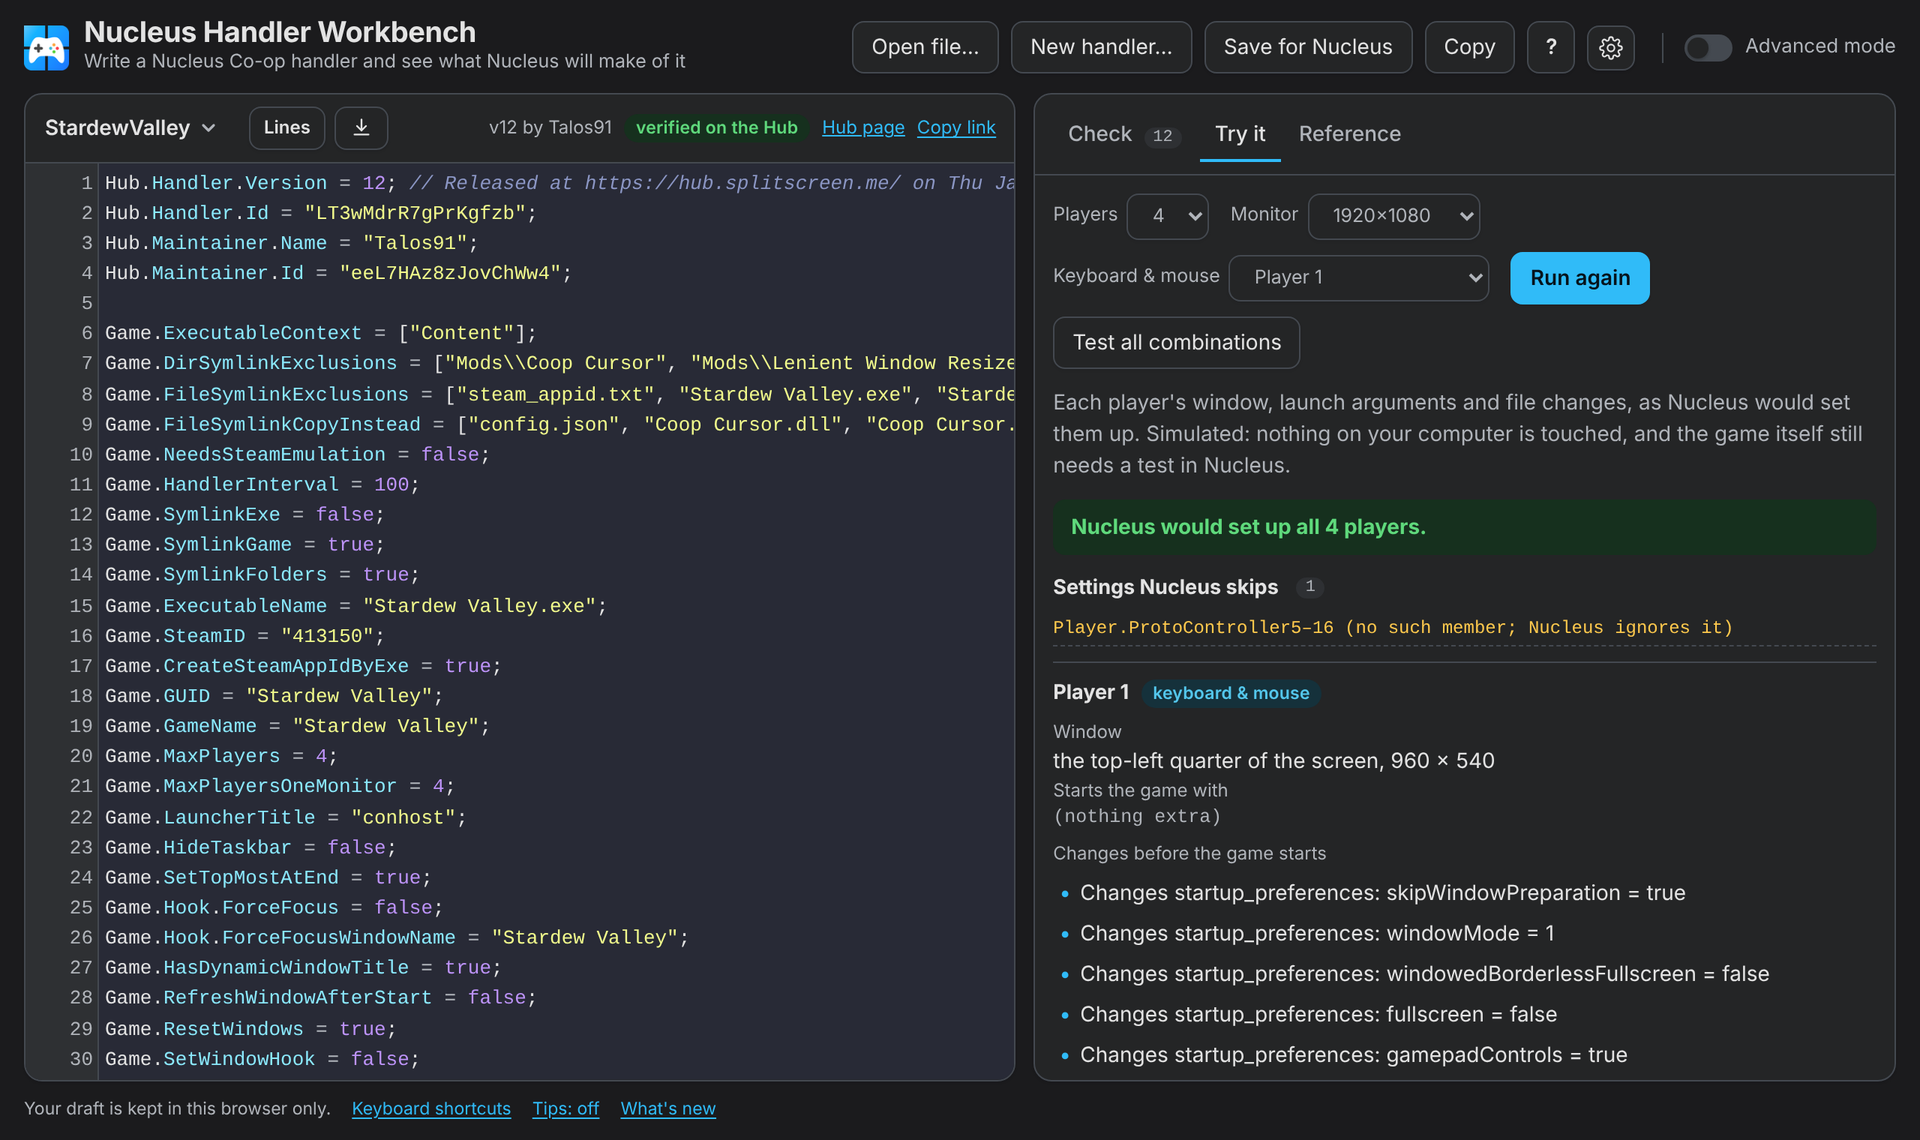
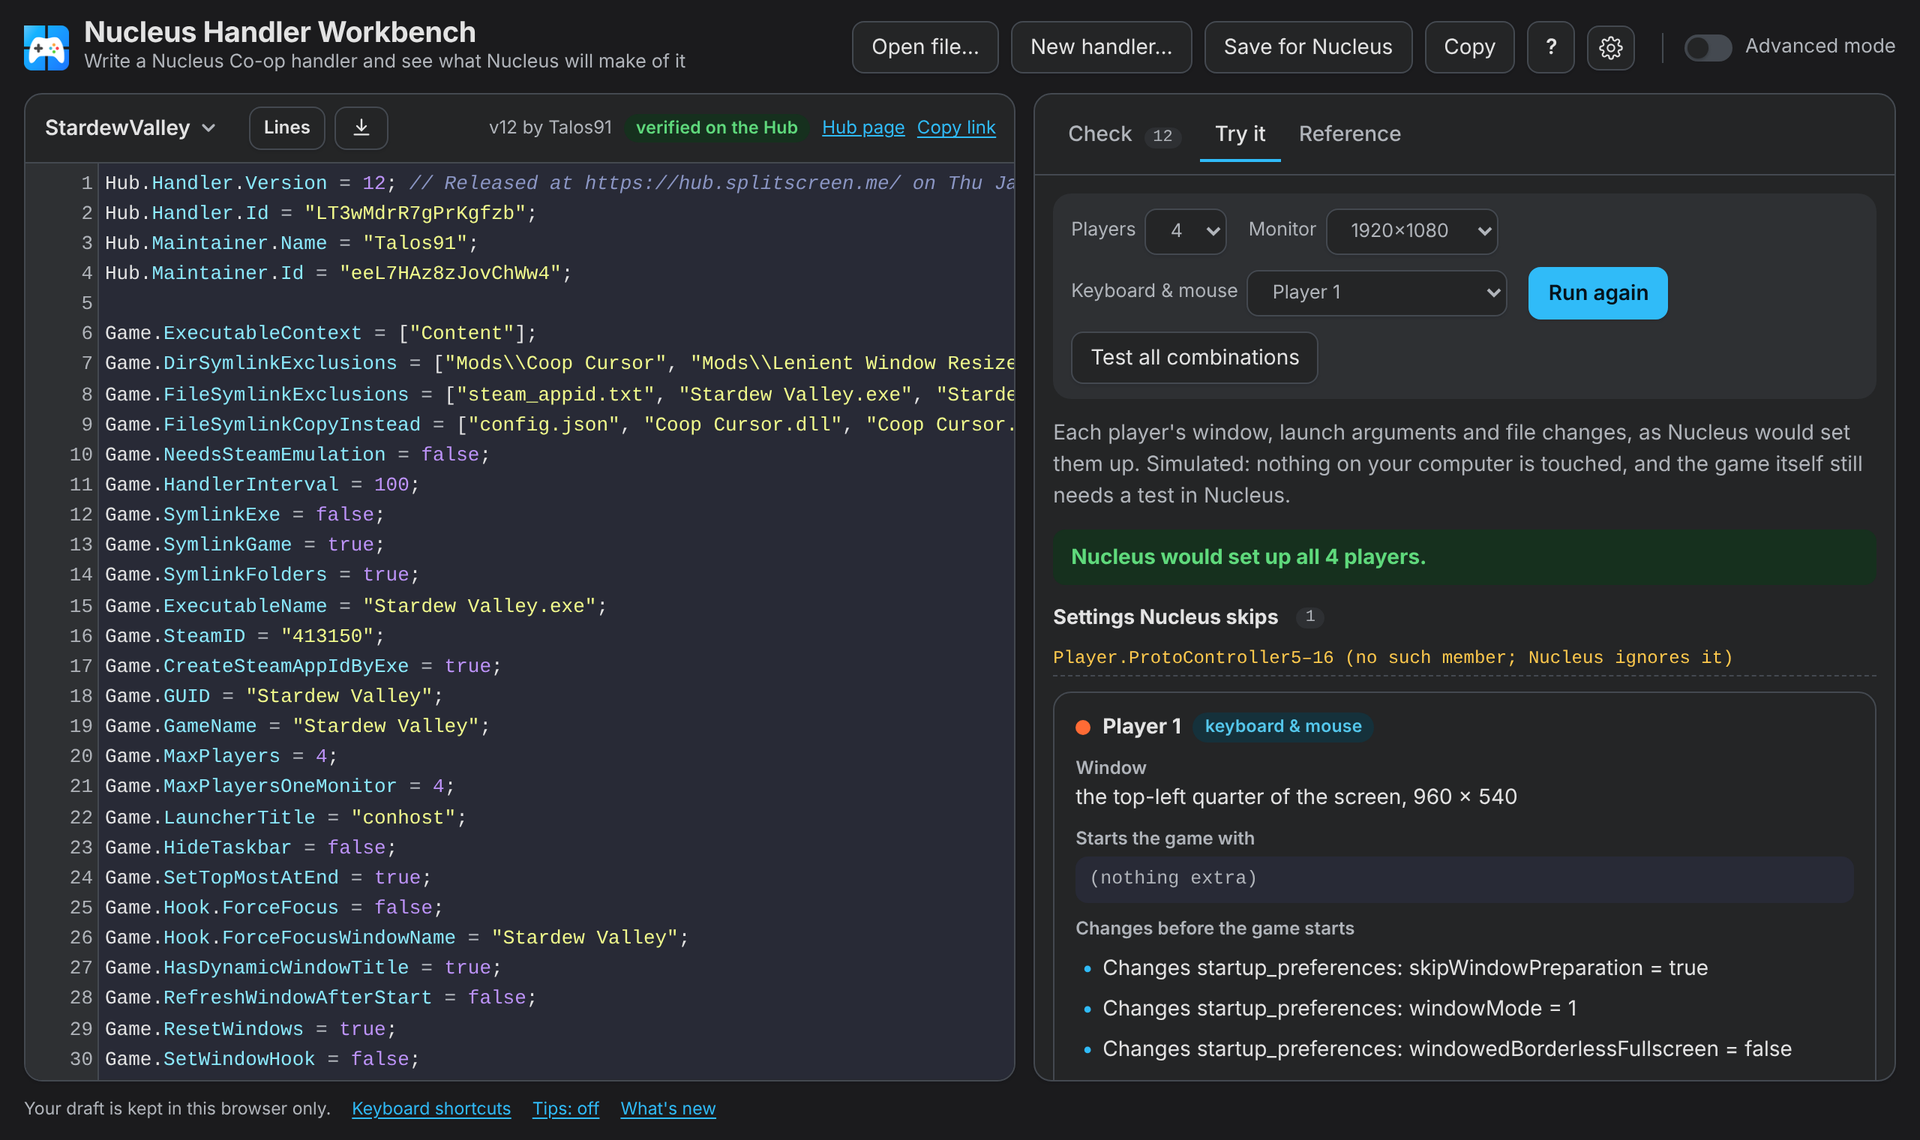
Reference home (what's in it), Try it player cards, Settings switches
Reference with nothing typed lists the objects with counts (click for all
names), the most used names in Hub handlers, enums and sample searches.
Try it: controls in a toolbar, one card per player with their colour.
Settings: switches with hover rows. Smoke check + axe for Reference.

Claude-Session: https://claude.ai/code/session_0176z2bCvwUXMSQ8ZHn5TiTv

Changed region(s): [[0.5312, 0.1842, 0.9688, 0.9518]]

diff --git a/playground/src/page.html b/playground/src/page.html
@@ -109,7 +109,6 @@ a.brand:focus-visible { outline: 2px solid var(--accent); outline-offset: 3px; }
 .logo-v3, :root[data-site="v3"] .logo-www { display: none; }
 :root[data-site="v3"] .logo-v3 { display: block; }
 /* v3: colour means a player. Player cards in Try it carry their player's colour. */
-:root[data-site="v3"] .player { border-top: 0; border-left: 3px solid var(--pc, var(--line)); padding-left: 12px; }
 .player.p1 { --pc: var(--p1); } .player.p2 { --pc: var(--p2); } .player.p3 { --pc: var(--p3); } .player.p4 { --pc: var(--p4); }
 .player.p5 { --pc: var(--p5); } .player.p6 { --pc: var(--p6); } .player.p7 { --pc: var(--p7); } .player.p8 { --pc: var(--p8); }
 .sr-only { position: absolute; width: 1px; height: 1px; overflow: hidden; clip-path: inset(50%); white-space: nowrap; }
@@ -124,6 +123,7 @@ a.btn { text-decoration: none; color: var(--fg); display: inline-block; }
 .btn.primary { background: var(--accent); color: var(--accent-fg); border-color: var(--accent); font-weight: 600; }
 .btn.primary:hover { background: color-mix(in srgb, var(--accent) 88%, var(--fg)); border-color: transparent; }
 :focus-visible { outline: 2px solid var(--accent); outline-offset: 2px; }
+:root { accent-color: var(--accent); }
 
 .main { flex: 1; min-height: 0; display: grid; grid-template-columns: minmax(0, 1.15fr) 12px minmax(0, 1fr); gap: 0; }
 @media (min-width: 861px) { .main:has(#lines:not([hidden])) { grid-template-columns: minmax(0, 1.5fr) 12px minmax(0, 1fr); } }
@@ -312,7 +312,16 @@ body.resizing-v, body.resizing-v * { cursor: row-resize !important; user-select:
 .set-field input { font: 13px var(--font-mono); color: var(--fg); background: var(--code-bg); border: 1px solid var(--line); border-radius: var(--r-ctl); padding: 6px 8px; width: 100%; box-sizing: border-box; }
 .set-waka-row { display: flex; gap: 10px; align-items: center; flex-wrap: wrap; }
 #settings-dialog h2 { margin: 0 0 6px; font-size: 18px; }
-.set-sec { border-top: 1px solid var(--line); padding: 10px 0 8px; display: flex; flex-direction: column; gap: 4px; align-items: flex-start; }
+.set-sec { border-top: 1px solid var(--line); padding: 12px 0 10px; display: flex; flex-direction: column; gap: 4px; align-items: stretch; }
+.set-sec > :not(.check):not(h3) { align-self: flex-start; }
+/* Settings: on/off choices as switches, each row with a soft hover */
+.set-sec .check, #lines-settings .set-row { margin: 0; padding: 6px 8px; border-radius: var(--r-ctl); cursor: pointer; }
+.set-sec .check:hover, #lines-settings .set-row:hover { background: var(--surface-2); }
+.set-sec input[type=checkbox], #lines-settings input[type=checkbox] { appearance: none; -webkit-appearance: none; flex: none; position: relative; width: 32px; height: 18px; margin: 2px 0 0; border-radius: 999px; background: color-mix(in srgb, var(--fg) 22%, var(--surface-2)); cursor: pointer; transition: background-color .15s; }
+.set-sec input[type=checkbox]::after, #lines-settings input[type=checkbox]::after { content: ""; position: absolute; top: 2px; left: 2px; width: 14px; height: 14px; border-radius: 50%; background: #fff; box-shadow: 0 1px 2px rgba(0,0,0,.3); transition: transform .15s var(--ease); }
+.set-sec input[type=checkbox]:checked, #lines-settings input[type=checkbox]:checked { background: var(--accent); }
+.set-sec input[type=checkbox]:checked::after, #lines-settings input[type=checkbox]:checked::after { transform: translateX(14px); background: var(--accent-fg); }
+@media (prefers-reduced-motion: reduce) { .set-sec input[type=checkbox], .set-sec input[type=checkbox]::after, #lines-settings input[type=checkbox]::after { transition: none; } }
 .set-sec h3 { margin: 0 0 2px; font-size: 13px; font-weight: 600; color: var(--muted); }
 .set-sec summary { cursor: pointer; font-weight: 600; color: var(--muted); }
 details.set-sec[open] summary { margin-bottom: 4px; }
@@ -394,7 +403,7 @@ a { color: var(--accent); }
 [role=tab][aria-selected=true] { color: var(--fg); border-bottom-color: var(--accent); }
 .count { font: 500 11px var(--font-mono); background: var(--surface-2); color: var(--muted); border-radius: 9px; padding: 1px 6px; margin-left: 4px; }
 [role=tabpanel] { flex: 1; min-height: 0; overflow: auto; padding: 12px; }
-.panel-tools { display: flex; flex-wrap: wrap; gap: 8px 14px; align-items: center; margin-bottom: 12px; }
+.panel-tools { display: flex; flex-wrap: wrap; gap: 8px 14px; align-items: center; margin-bottom: 12px; padding: 10px 12px; background: var(--surface-2); border-radius: var(--r-pane); }
 .panel-tools label { display: flex; gap: 6px; align-items: center; color: var(--muted); font-size: 12.5px; }
 
 .pill, .chip { display: inline-block; border-radius: 999px; font-size: 11.5px; font-weight: 600; padding: 1px 8px; background: var(--surface-2); color: var(--muted); letter-spacing: .01em; }
@@ -420,7 +429,14 @@ a { color: var(--accent); }
 
 .banner { border-radius: var(--r-ctl); padding: 8px 12px; margin-bottom: 12px; overflow-wrap: anywhere; }
 .banner.error { background: var(--err-bg); color: var(--err); } .banner.ok { background: var(--ok-bg); color: var(--ok); }
-.player { border-top: 1px solid var(--line); padding-top: 10px; margin-top: 10px; }
+/* Try it: one card per player, the player's colour as a dot by the name */
+.player { border: 1px solid var(--line); border-radius: var(--r-pane); background: var(--surface); box-shadow: var(--sh-1); padding: 12px 14px; margin-top: 10px; }
+.player > h3 { font-size: 14px; }
+.player > h3::before { content: ""; width: 10px; height: 10px; border-radius: 50%; background: var(--pc, var(--muted)); flex: none; }
+.player dl { margin: 8px 0 0; }
+.player dt { font-weight: 600; margin-top: 8px; }
+.player dd.mono { background: var(--code-bg); border-radius: var(--r-ctl); padding: 6px 9px; margin-top: 3px; }
+.player .effects { margin: 4px 0 0; }
 h3 { font-size: 13.5px; margin: 0 0 6px; display: flex; gap: 8px; align-items: center; }
 dl { margin: 0 0 6px; } dt { color: var(--muted); font-size: 12px; } dd { margin: 0; }
 .mono { font: 12.5px/1.5 var(--font-mono); overflow-wrap: anywhere; }
@@ -614,6 +630,26 @@ kbd { font: 11px var(--font-mono); border: 1px solid var(--line); border-bottom-
 .entries.chips .entry .mono { width: 26px; height: 26px; border-radius: 999px; font-size: 10.5px; }
 .entries.chips .entry .t { font-weight: 500; white-space: nowrap; }
 :root[data-site="v3"] #open-dialog { border-radius: var(--r-pane); }
+/* Reference with nothing typed: what's in it */
+.api-home { display: flex; flex-direction: column; gap: 6px; }
+.api-home > p { margin: 0; }
+.api-h { margin: 14px 0 2px; font-size: 12px; font-weight: 600; color: var(--muted); }
+.api-groups { display: grid; grid-template-columns: repeat(auto-fill, minmax(220px, 1fr)); gap: 8px; }
+.api-group { display: flex; flex-direction: column; gap: 3px; text-align: left; font: inherit; color: var(--fg); background: var(--surface-2); border: 0; border-radius: var(--r-pane); padding: 10px 12px; cursor: pointer; transition: background-color .12s; }
+.api-group:hover { background: color-mix(in srgb, var(--accent) 12%, var(--surface-2)); }
+.api-group .t { font: 600 13.5px var(--font-mono); display: flex; gap: 6px; align-items: center; }
+.api-group .count { font: 600 11px var(--font-body); color: var(--muted); background: var(--surface); border-radius: 999px; padding: 0 7px; }
+.api-group .s { font-size: 12.5px; color: var(--muted); line-height: 1.4; }
+.api-chips { display: flex; flex-wrap: wrap; gap: 6px; }
+.api-chip { font: 12px var(--font-mono); color: var(--fg); background: var(--surface-2); border: 0; border-radius: 999px; padding: 4px 10px; cursor: pointer; }
+.api-chip:hover { background: color-mix(in srgb, var(--accent) 16%, var(--surface-2)); }
+.api-crumbs { font-size: 13px; }
+.api-list { list-style: none; margin: 6px 0 0; padding: 0; display: flex; flex-direction: column; }
+.api-list button { display: grid; grid-template-columns: minmax(0, auto) auto; column-gap: 10px; width: 100%; text-align: left; font: inherit; color: var(--fg); background: none; border: 0; border-radius: var(--r-ctl); padding: 6px 8px; cursor: pointer; }
+.api-list button:hover { background: var(--surface-2); }
+.api-list .n { font: 600 12.5px var(--font-mono); overflow-wrap: anywhere; }
+.api-list .ty { font: 11.5px var(--font-mono); color: var(--muted); justify-self: end; }
+.api-list .d { grid-column: 1 / -1; font-size: 12.5px; color: var(--muted); overflow: hidden; text-overflow: ellipsis; white-space: nowrap; }
 #help-dialog .keys td { padding: 5px 8px; border-bottom: 1px solid var(--line); }
 /* --- Advanced mode off (simple-only shown) / on (dev-only shown) --- */
 :root[data-mode=simple] .dev-only, :root[data-mode=dev] .simple-only { display: none !important; }

diff --git a/playground/src/app.ts b/playground/src/app.ts
@@ -13,7 +13,8 @@ import { MATRIX_RESOLUTIONS, planMatrix, failureOf, jobOptions } from '@core/mat
 import { lint, Diagnostic, RULES, lineOf, pluginGlobals } from '@core/lint';
 import { api, membersOf, memberMarkdown, ownerLabel, Resolved } from '@core/api';
 import { memberContextAt, resolveAt, callContextAt } from '@core/complete';
-import { search, lookup, Entry } from '@core/lookup';
+import { search, lookup, allEntries, Entry } from '@core/lookup';
+import USAGE from './usage.json';
 import { renderHandler, FEATURES } from '@core/templates';
 import { simulate, sessionSummary, groupIgnored, parsePluginsInfo } from '@core/sim';
 import { buildPrompt, pageTools, diffLines, hunks, counts, newProblems } from './aifix';
@@ -793,11 +794,61 @@ $('#sim-all').addEventListener('click', testAll);
 // ---------------------------------------------------------------------------
 // API search
 
+// Reference with nothing typed: what's in it, so it's clear what can be found there.
+const API_GROUPS: { key: string; title: string; doc: string; match: (path: string) => boolean }[] = [
+  { key: 'Game', title: 'Game', doc: 'The handler\'s options: the game, its executable, players, mutexes, files and callbacks.', match: (p) => /^Game\.[^.]+$/.test(p) },
+  { key: 'Game.Hook', title: 'Game.Hook', doc: 'Focus and input hooks injected into each instance.', match: (p) => p.startsWith('Game.Hook.') },
+  { key: 'Game.ProtoInput', title: 'Game.ProtoInput', doc: 'Proto Input settings for the whole session.', match: (p) => p.startsWith('Game.ProtoInput.') },
+  { key: 'Context', title: 'Context', doc: 'One player\'s instance, inside Game.Play: launch arguments, folders and files to edit.', match: (p) => p.startsWith('Context.') },
+  { key: 'Player', title: 'Player', doc: 'The player Game.Play runs for (also PlayerList[i]): screen, controller, nickname.', match: (p) => p.startsWith('Player.') },
+  { key: 'ProtoInput', title: 'ProtoInput', doc: 'Proto Input calls at runtime, inside Game.Play and other callbacks.', match: (p) => p.startsWith('ProtoInput.') },
+  { key: 'System', title: '.NET (System.*)', doc: 'Files, folders, paths and the environment, through .NET.', match: (p) => p.startsWith('System.') },
+];
+const typeOf = (e: Entry) => (e.member.kind === 'method' ? 'fn' : ((e.member as { type?: string }).type ?? ''));
+function renderApiHome(el: HTMLElement) {
+  const all = allEntries();
+  const usage = USAGE.counts as Record<string, number>;
+  const top = Object.entries(usage)
+    .filter(([p]) => !/^Game\.(GUID|GameName|ExecutableName|Play|Hub)$/.test(p) && all.some((e) => e.path === p && e.member.kind !== 'object'))
+    .slice(0, 14);
+  const enums = Object.keys(api.enums).sort();
+  el.innerHTML = `<div class="api-home">
+    <p class="muted">Every option, Context member, enum and .NET call a handler can use, with what Nucleus does with it. Type above, or start here.</p>
+    <h3 class="api-h">Browse</h3>
+    <div class="api-groups">${API_GROUPS.map((g) => `<button type="button" class="api-group" data-group="${g.key}"><span class="t">${esc(g.title)} <span class="count">${all.filter((e) => g.match(e.path)).length}</span></span><span class="s">${esc(g.doc)}</span></button>`).join('')}</div>
+    <h3 class="api-h">Most used in Hub handlers</h3>
+    <div class="api-chips">${top.map(([p, n]) => `<button type="button" class="api-chip" data-q="${esc(p)}" title="In ${n} of ${USAGE.handlers} Hub handlers">${esc(p)}</button>`).join('')}</div>
+    <h3 class="api-h">Nucleus values (enums)</h3>
+    <div class="api-chips">${enums.map((n) => `<button type="button" class="api-chip" data-q="Nucleus.${esc(n)}">Nucleus.${esc(n)}</button>`).join('')}</div>
+    <h3 class="api-h">Try a search</h3>
+    <p class="muted">${['mutex', 'window title', 'save file', 'keyboard', 'steam'].map((q) => `<button class="link" data-q="${q}">${q}</button>`).join(' · ')}</p>
+  </div>`;
+  el.querySelectorAll<HTMLButtonElement>('[data-group]').forEach((b) => b.addEventListener('click', () => renderApiGroup(el, b.dataset.group!)));
+  wireApiLinks(el);
+}
+/** One object's members, as a compact list: click one for its docs. */
+function renderApiGroup(el: HTMLElement, key: string) {
+  const g = API_GROUPS.find((x) => x.key === key)!;
+  const list = allEntries().filter((e) => g.match(e.path)).sort((a, b) => a.path.localeCompare(b.path));
+  el.innerHTML = `<div class="api-home"><p class="api-crumbs"><button type="button" class="link" data-home>Reference</button> › <strong>${esc(g.title)}</strong> <span class="muted">· ${list.length}</span></p><p class="muted">${esc(g.doc)}</p>
+    <ul class="api-list">${list.map((e) => `<li><button type="button" data-q="${esc(e.path)}"><span class="n">${esc(e.path)}</span><span class="ty">${esc(typeOf(e))}</span><span class="d">${esc((e.member.doc || '').split('\n')[0].replace(/[`*\\]/g, ''))}</span></button></li>`).join('')}</ul></div>`;
+  el.querySelector('[data-home]')!.addEventListener('click', () => renderApiHome(el));
+  wireApiLinks(el);
+  el.scrollTop = 0;
+}
+function wireApiLinks(el: HTMLElement) {
+  el.querySelectorAll<HTMLButtonElement>('[data-q]').forEach((b) =>
+    b.addEventListener('click', () => {
+      ($('#api-q') as HTMLInputElement).value = b.dataset.q!;
+      renderApi(b.dataset.q!);
+    }),
+  );
+}
+
 function renderApi(q: string) {
   const el = $('#api-results');
-  if (!q.trim()) {
-    el.innerHTML = '<p class="empty">Search option names and docs, e.g. <button class="link" data-q="mutex">mutex</button>, <button class="link" data-q="window title">window title</button>, <button class="link" data-q="Context.ModifySaveFile">Context.ModifySaveFile</button>, <button class="link" data-q="Nucleus.Folder">Nucleus.Folder</button>.</p>';
-  } else {
+  if (!q.trim()) return renderApiHome(el);
+  {
     const exact = lookup(q);
     let entries: Entry[] = exact.kind === 'entries' ? exact.entries : [];
     for (const e of search(q, 30)) if (!entries.some((x) => x.path === e.path)) entries.push(e);
@@ -812,12 +863,7 @@ function renderApi(q: string) {
         ? entries.map((e) => `<article class="api"><h3>${esc(e.path)}${e.member.deprecated ? ' <span class="chip hint">deprecated</span>' : ''}${e.member.required ? ' <span class="chip error">required</span>' : ''}</h3>${md(memberMarkdown(e.owner, e.name, e.member).replace(/\n\n\[Handler API docs\]\([^)]+\)$/, ''))}</article>`).join('')
         : `<p class="empty">Nothing matches "${esc(q)}".</p>`);
   }
-  el.querySelectorAll<HTMLButtonElement>('[data-q]').forEach((b) =>
-    b.addEventListener('click', () => {
-      ($('#api-q') as HTMLInputElement).value = b.dataset.q!;
-      renderApi(b.dataset.q!);
-    }),
-  );
+  wireApiLinks(el);
 }
 $('#api-q').addEventListener('input', (e) => renderApi((e.target as HTMLInputElement).value));
 renderApi('');

diff --git a/playground/src/tips.ts b/playground/src/tips.ts
@@ -139,6 +139,7 @@ const PITFALLS = T('Pitfall', [
 const SHORTCUTS = T('Shortcut', [
   { id: 's-palette', text: 'Ctrl+Shift+P (or F1) opens the command palette, as in VS Code: format, fix, Try it, theme and the rest, each with its shortcut.' },
   { id: 's-open', text: 'Ctrl+P (or Ctrl+K) opens the examples, templates and Hub handlers. Type `>` there to switch to commands.', action: { label: 'Examples', run: 'examples' } },
+  { id: 'f-ref-home', text: 'Not sure what an option is called? Open Reference with nothing typed and browse Game, Context, Player and the rest, or see the names Hub handlers use most.' },
   { id: 'f-lines-ref', text: 'Open the Reference tab, then point at names in Lines (Ctrl+B): each one\'s full docs show in Reference, on a wide screen.', action: { label: 'Lines', run: 'lines' } },
   { id: 's-open-keys', text: 'In Open (Ctrl+K), the arrow keys move between tiles, templates and Hub rows; Home and End jump to the first and last. Hover a Hub handler\'s icons for players, keyboards and mice, and downloads.', action: { label: 'Examples', run: 'examples' } },
   { id: 's-format', text: 'Shift+Alt+F formats the code: indentation and spacing only. Nothing moves to another line, so Nucleus reads it exactly as before.' },

diff --git a/CHANGELOG.md b/CHANGELOG.md
@@ -14,9 +14,13 @@ How to write it (people and AI agents read this, and the workbench shows it):
 
 ## Unreleased
 
+### ✨ New
+
+- **Reference shows what's in it.** With nothing typed, the Reference tab lists what you can look up: Game, Game.Hook, Context, Player, ProtoInput and .NET, each with a count (click one for all its names), the names Hub handlers use most, the Nucleus enums, and a few searches to try.
+
 ### 🛠 Improved
 
-- **One look across the workbench and the start page.** Rounder panes, cards and dialogs with soft shadows, buttons that react when you point at them, Check cards with a rounded colour bar, and dialogs that fade in (or slide up on phones). The sizes come from one shared scale, and nothing moves if your device asks for less motion.
+- **One look across the workbench and the start page.** Rounder panes, cards and dialogs with soft shadows, buttons that react when you point at them, Check cards with a rounded colour bar, Try it with one card per player (their colour by the name), switches in Settings, and dialogs that fade in (or slide up on phones). The sizes come from one shared scale, and nothing moves if your device asks for less motion.
 - **Lines shows docs in Reference.** With the Reference tab open on a wide screen, pointing at a name in Lines shows its full docs there, not squeezed under the list. Suggested by messenils.
 - **A cleaner Open dialog.** Ctrl+K now opens a palette near the top of the screen: the start actions as tiles with icons, engine templates as chips, and Hub handlers as rows with the game's initials, players, downloads and a clean or warning badge (hover it to see what it means). Searching groups the results with a count and highlights what you typed, and the arrow keys move through every layout.
 
